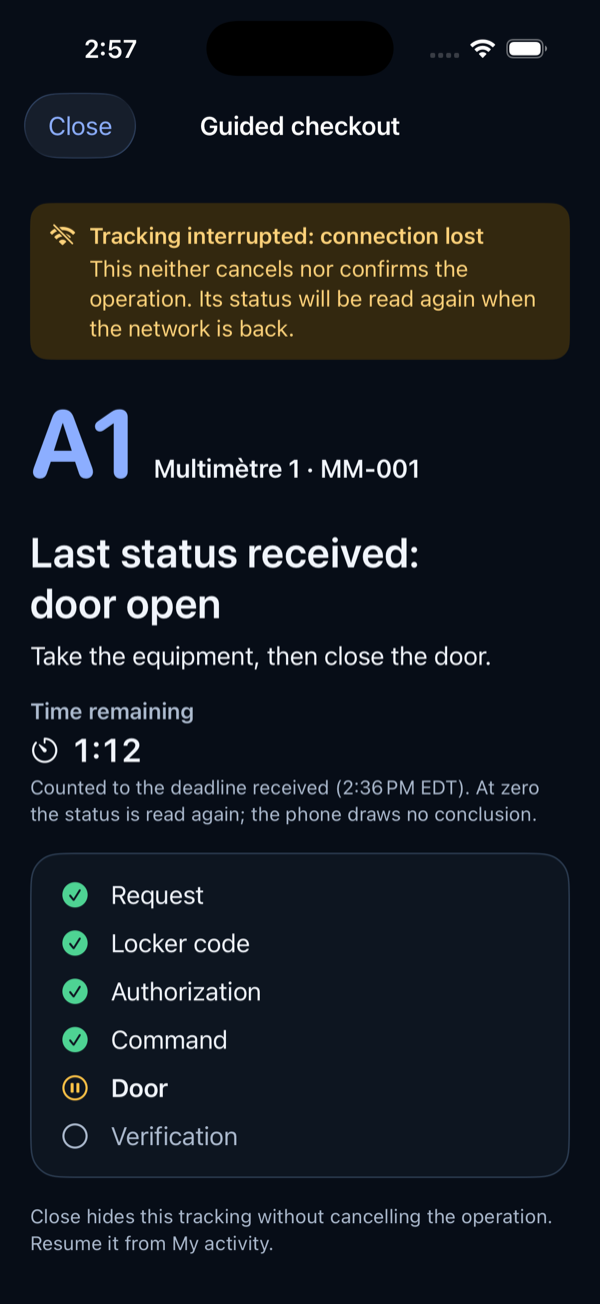
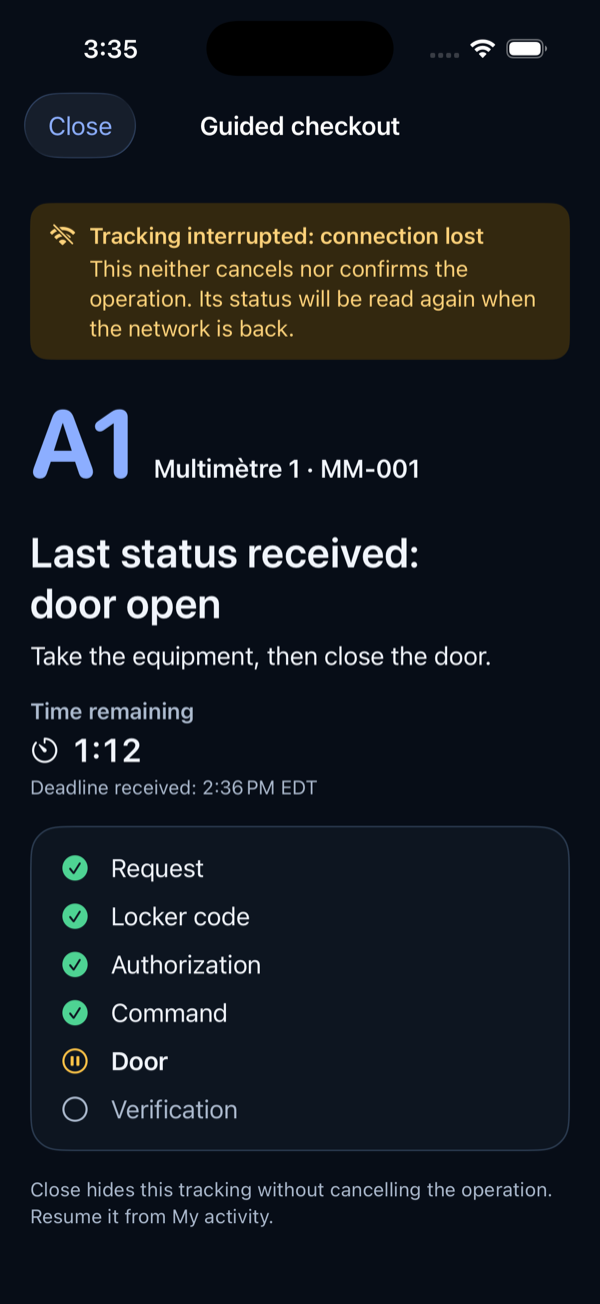
docs(design): finish the reservation, deadline and restart wording in the iOS flows
State both consequences of the reservation time, since reservedUntil also
becomes the loan's due time on checkout, and keep the unlock reminder
separate. At zero the countdown now waits for the service instead of
promising a new reading, and never concludes locally. Shorten the restart
button and condense it at accessibility sizes so it stays whole at AX5.
Mark the offline-locker variants of My activity as pending the
availableActions clarification, and let the render script target only the
captures that changed.

Refs #35

diff --git a/docs/design/mobile-parcours/prototype/FlowsPrototype.swift b/docs/design/mobile-parcours/prototype/FlowsPrototype.swift
@@ -44,6 +44,7 @@ fileprivate enum Screen: String {
     case authorized = "operation-autorisee"
     case unlockStarted = "operation-deverrouillage"
     case networkLost = "operation-reseau-perdu"
+    case networkLostDeadline = "operation-reseau-perdu-echeance"
     case confirmed = "operation-confirmee"
     case returnDoorOpen = "retour-porte-ouverte"
     case expired = "operation-expiree"
@@ -52,7 +53,7 @@ fileprivate enum Screen: String {
     var isOperation: Bool {
         switch self {
         case .awaitingDisplay, .scan, .scanCameraDenied, .authorized, .unlockStarted,
-             .networkLost, .confirmed, .returnDoorOpen, .expired, .anomaly: true
+             .networkLost, .networkLostDeadline, .confirmed, .returnDoorOpen, .expired, .anomaly: true
         default: false
         }
     }
@@ -576,17 +577,24 @@ fileprivate struct ReserveSheet: View {
                         Card {
                             // Native picker in the locker time zone, bounded by
                             // currentWindow.closesAt in the app.
-                            DatePicker(t.pickUpBy, selection: .constant(Sample.pickUpBy),
+                            DatePicker(t.reserveUntil, selection: .constant(Sample.pickUpBy),
                                        displayedComponents: .hourAndMinute)
                                 .environment(\.timeZone, Sample.zone)
                                 .foregroundStyle(Color.brandText)
                             Divider()
                             Fact(label: t.lockerCloses, value: Sample.time(Sample.closesAt))
                         }
-                        Text(t.lockerZoneNote(Sample.zoneName(Sample.pickUpBy)))
-                            .font(.footnote)
-                            .foregroundStyle(Color.brandMuted)
-                        Label(t.reserveReminder, systemImage: "lock.fill")
+                        VStack(alignment: .leading, spacing: 6) {
+                            // reservedUntil becomes Loan.dueAt on checkout (06 §11.1).
+                            Text(t.reserveUntilExplained)
+                                .font(.subheadline)
+                                .foregroundStyle(Color.brandText)
+                            Text(t.lockerZoneNote(Sample.zoneName(Sample.pickUpBy)))
+                                .font(.footnote)
+                                .foregroundStyle(Color.brandMuted)
+                        }
+                        .fixedSize(horizontal: false, vertical: true)
+                        Label(t.reserveUnlocksNothing, systemImage: "lock.fill")
                             .font(.subheadline)
                             .foregroundStyle(Color.brandText)
                     }
@@ -739,7 +747,7 @@ fileprivate struct OperationScreen: View {
         case .awaitingDisplay, .scan, .scanCameraDenied: 2
         case .authorized: 3
         case .unlockStarted: 4
-        case .networkLost, .returnDoorOpen: 5
+        case .networkLost, .networkLostDeadline, .returnDoorOpen: 5
         case .confirmed: 7
         case .expired: 5
         case .anomaly: 6
@@ -748,7 +756,7 @@ fileprivate struct OperationScreen: View {
     }
 
     private var isReturn: Bool { screen == .returnDoorOpen }
-    private var interrupted: Bool { screen == .networkLost }
+    private var interrupted: Bool { screen == .networkLost || screen == .networkLostDeadline }
 
     var body: some View {
         NavigationStack {
@@ -828,6 +836,7 @@ fileprivate struct OperationScreen: View {
         case .authorized: Countdown(seconds: 118, interrupted: false, t: t)
         case .unlockStarted: Countdown(seconds: 101, interrupted: false, t: t)
         case .networkLost: Countdown(seconds: 72, interrupted: true, t: t)
+        case .networkLostDeadline: Countdown(seconds: 0, interrupted: true, t: t)
         case .returnDoorOpen: Countdown(seconds: 72, interrupted: false, t: t)
         default: EmptyView()
         }
@@ -841,7 +850,15 @@ fileprivate struct OperationScreen: View {
         case .confirmed:
             Button(t.seeActivity, action: close).buttonStyle(PrimaryButtonStyle())
         case .expired:
-            Button(t.prepareAgain) {}.buttonStyle(PrimaryButtonStyle())
+            // Short visible label, condensed at accessibility sizes like the
+            // title, keeps the word whole at AX5 without capping the size; the
+            // title and instruction above give the context.
+            Button {} label: {
+                Text(t.prepareAgain).fontWidth(typeSize.isAccessibilitySize ? .condensed : .standard)
+            }
+                .buttonStyle(PrimaryButtonStyle())
+                .accessibilityLabel(t.prepareAgainSpoken)
+                .accessibilityHint(t.prepareAgainHint)
         case .anomaly:
             Button(t.seeActivity, action: close).buttonStyle(SecondaryButtonStyle())
         default:
@@ -851,7 +868,7 @@ fileprivate struct OperationScreen: View {
 }
 
 /// Counts down to the received `expiresAt` on the device clock. It never
-/// decides an outcome: at zero the app reads the operation again.
+/// decides an outcome: at zero it waits for the service's own state.
 fileprivate struct Countdown: View {
     let seconds: Int
     let interrupted: Bool
@@ -869,16 +886,26 @@ fileprivate struct Countdown: View {
                 Image(systemName: "timer")
             }
             .foregroundStyle(Color.brandText)
-            Text(interrupted ? t.countdownInterrupted(Sample.time(Sample.operationDeadline))
-                             : t.deadline(Sample.time(Sample.operationDeadline)))
+            if seconds == 0 {
+                Text(t.deadlineReached)
+                    .font(.subheadline.weight(.semibold))
+                    .foregroundStyle(Color.brandText)
+                    .fixedSize(horizontal: false, vertical: true)
+            }
+            Text(deadlineText)
                 .font(.footnote)
                 .foregroundStyle(Color.brandMuted)
                 .fixedSize(horizontal: false, vertical: true)
         }
         .accessibilityElement(children: .ignore)
         .accessibilityLabel(t.timeRemaining)
-        .accessibilityValue(Sample.spoken(seconds: seconds))
-        .accessibilityHint(interrupted ? t.countdownInterrupted(Sample.time(Sample.operationDeadline)) : "")
+        .accessibilityValue(seconds == 0 ? t.deadlineReached : Sample.spoken(seconds: seconds))
+        .accessibilityHint(deadlineText)
+    }
+
+    private var deadlineText: String {
+        let time = Sample.time(Sample.operationDeadline)
+        return interrupted ? t.deadlineReceived(time) : t.deadline(time)
     }
 }
 
@@ -895,7 +922,7 @@ fileprivate struct StepHeader: View {
             case .scan, .scanCameraDenied: (t.scanTitle, t.noDoorOpen, .progress)
             case .authorized: (t.accessAuthorized, t.dontOpenYet, .progress)
             case .unlockStarted: (t.unlockStarted, t.openDoorAndTake("Multimètre 1"), .progress)
-            case .networkLost: (t.lastStatusReceived(t.doorOpenLowercase), t.takeAndClose, .progress)
+            case .networkLost, .networkLostDeadline: (t.lastStatusReceived(t.doorOpenLowercase), t.takeAndClose, .progress)
             case .returnDoorOpen: (t.doorOpened, t.depositAndClose, .progress)
             case .confirmed: (t.checkoutConfirmed, t.loanStarted(Sample.time(Sample.pickUpBy)), .ready)
             case .expired: (t.timeExceeded, t.noDoorOpenedRestart, .blocked)
@@ -1211,14 +1238,17 @@ fileprivate struct Copy {
     var reserveNeedsRefresh: String {
         t("Réservation possible après actualisation de la fiche.", "You can reserve once this page is up to date.")
     }
-    var pickUpBy: String { t("Retirer avant", "Pick up by") }
+    var reserveUntil: String { t("Réserver jusqu'à", "Reserve until") }
     var lockerCloses: String { t("Fermeture du casier", "Locker closes") }
     func lockerZoneNote(_ zone: String) -> String {
         t("Heures du casier : \(zone).", "Locker time: \(zone).")
     }
-    var reserveReminder: String {
-        t("Retirez l'équipement avant cette heure; la réservation n'ouvre aucune porte.",
-          "Pick up the equipment before this time. Reserving does not unlock the compartment.")
+    var reserveUntilExplained: String {
+        t("Retirez l'équipement avant cette heure. Elle sera aussi l'heure de retour prévue.",
+          "Pick up the equipment before this time. It will also be the expected return time.")
+    }
+    var reserveUnlocksNothing: String {
+        t("La réservation n'ouvre aucune porte.", "Reserving does not unlock the compartment.")
     }
     var confirmReservation: String { t("Confirmer la réservation", "Confirm reservation") }
     func lockerClosed(_ time: String) -> String { t("Le casier est fermé. Réouverture à \(time).", "The locker is closed. It reopens at \(time).") }
@@ -1268,9 +1298,9 @@ fileprivate struct Copy {
     var doorOpenLowercase: String { t("porte ouverte", "door open") }
     var timeRemaining: String { t("Temps restant", "Time remaining") }
     func deadline(_ time: String) -> String { t("Échéance : \(time)", "Deadline: \(time)") }
-    func countdownInterrupted(_ time: String) -> String {
-        t("Calculé sur l'échéance reçue (\(time)). À zéro, l'état sera relu; aucun résultat n'est déduit sur l'appareil.",
-          "Counted to the deadline received (\(time)). At zero the status is read again; the phone draws no conclusion.")
+    func deadlineReceived(_ time: String) -> String { t("Échéance reçue : \(time)", "Deadline received: \(time)") }
+    var deadlineReached: String {
+        t("Échéance atteinte : en attente de confirmation du service.", "Deadline reached: waiting for the service to confirm.")
     }
     func compartmentSpoken(_ code: String) -> String { t("Cellule \(code)", "Compartment \(code)") }
     var codeAppearing: String { t("Le code s'affiche sur le casier", "Code appearing on the locker") }
@@ -1295,7 +1325,11 @@ fileprivate struct Copy {
     var dontRetryAdmin: String { t("Ne réessayez pas. Un administrateur doit vérifier la cellule A1.", "Don't try again. An administrator must check compartment A1.") }
     var scanCode: String { t("Scanner le code", "Scan the code") }
     var seeActivity: String { t("Voir mon activité", "View my activity") }
-    var prepareAgain: String { t("Recommencer la préparation", "Start again") }
+    var prepareAgain: String { t("Recommencer", "Start again") }
+    var prepareAgainSpoken: String { t("Recommencer le retrait", "Start the checkout again") }
+    var prepareAgainHint: String {
+        t("Un nouveau code s'affichera sur le casier.", "A new code will appear on the locker.")
+    }
     var phases: [String] { lang == .fr
         ? ["Demande", "Code du casier", "Autorisation", "Commande", "Porte", "Vérification"]
         : ["Request", "Locker code", "Authorization", "Command", "Door", "Verification"] }

diff --git a/docs/design/mobile-parcours/proposition.md b/docs/design/mobile-parcours/proposition.md
@@ -14,7 +14,9 @@ actif et retour.
 | Structure des sections, hiérarchies, règles d'affichage et textes français de `../asset-lifecycle/sections.md` §1, §4, §6, décisions U1 à U8 | **Approuvé** le 23 septembre 2026; repris tel quel sauf mention « proposé » en §8 |
 | Direction « Lumière du hub » v3, logo provisoire, apparences claire et sombre, connexion | **Approuvé** le 21 octobre 2026 (`../mobile-entree/proposition.md`) |
 | Direction v3 des écrans intérieurs (sombre profond, clair distinct, surfaces sobres, bleu d'action), typographie système, cartes, statuts associant symbole et texte, structure des fiches et de Mon activité, cellule A1 mise en évidence dans le parcours guidé, principe des dernières données connues hors ligne avec ancienneté explicite | **Approuvé** le 22 octobre 2026 (revue de Philippe) |
-| Corrections de la revue du 22 octobre (§3, §4, §6, §7.3), textes ajoutés ou modifiés et traductions anglaises (§8), comportements d'accessibilité | **Proposition** (ce dossier) |
+| Corrections visuelles de la revue du 22 octobre : statuts anciens neutralisés, ancienneté visible, Réessayer, suivi interrompu, navigation native, hiérarchie en grand texte, petit écran | **Approuvé** le 22 octobre 2026 (design seulement : ne vaut validation ni de VoiceOver, ni de la caméra, ni du réseau réel) |
+| Variantes « Retrait indisponible » et « Nouvelle tentative permise » de Mon activité (§6) | Visuellement acceptées; **choix de la variante en attente** de la clarification de `availableActions` (§10) |
+| Textes ajoutés ou modifiés et traductions anglaises (§8.1), finitions du 22 octobre (§5, §7.3), comportements d'accessibilité | **Proposition** (ce dossier) |
 
 Les rendus de `captures/` viennent d'un prototype SwiftUI (`prototype/`),
 compilé dans une copie temporaire de `apps/ios` : données fictives, aucune
@@ -115,12 +117,18 @@ réservation.
 
 ## 5. Réservation (feuille)
 
-**Composition** (approuvée) : équipement et cellule → « Retirer avant »
+**Composition** (approuvée) : équipement et cellule → « Réserver jusqu'à »
 (`reservedUntil`, sélecteur natif dans le fuseau du casier, pas de 15 min)
-bornée par `currentWindow.closesAt` → fermeture du casier → note « Heures du
-casier : heure avancée de l'Est. » → rappel « Retirez l'équipement avant cette
-heure; la réservation n'ouvre aucune porte. » → **Confirmer la réservation**,
-fixé en bas de la feuille pour rester atteignable en très grand texte.
+bornée par `currentWindow.closesAt` → fermeture du casier → « Retirez
+l'équipement avant cette heure. Elle sera aussi l'heure de retour prévue. » →
+note « Heures du casier : heure avancée de l'Est. » → rappel séparé « La
+réservation n'ouvre aucune porte. » → **Confirmer la réservation**, fixé en
+bas de la feuille pour rester atteignable en très grand texte.
+
+L'heure choisie a deux conséquences, et la feuille les dit toutes deux : elle
+borne le retrait (la réservation expire à `reservedUntil`, `06` §14) et, au
+retrait confirmé, elle est copiée dans `Loan.dueAt` (`06` §11.1). Aucune règle
+métier n'est ajoutée par l'application.
 
 | État | Déclencheur | Affichage |
 |---|---|---|
@@ -142,8 +150,8 @@ en P0.
 |---|---|---|---|---|
 | Aucune activité | 404 sur `/me/reservation` et `/me/loan` | « Aucune réservation ni prêt en cours. » | **Voir les équipements** | — |
 | Réservation active | `ReservationView.ACTIVE` | « Réservé pour vous » · « À retirer avant 16 h 30 HAE » | **Préparer le retrait** | Annuler la réservation (confirmation approuvée) |
-| Retrait indisponible | Le retrait ne figure pas dans `availableActions`; le casier est hors ligne (`LockerStatusView.connectionStatus = OFFLINE`) | Avis dans la carte : « Retrait indisponible : le casier est hors ligne. » + « Dernier signal du casier à 14 h 28 HAE. Actualisez pour vérifier à nouveau. » | **Préparer le retrait** désactivé (cadenas), juste sous l'avis, puis **Actualiser**, seule action principale active | Annuler la réservation (lien) |
-| Nouvelle tentative permise | Le retrait figure dans `availableActions` après un `503 LOCKER_OFFLINE` | Avis : « Essai de 14 h 32 HAE : le casier était hors ligne. » + « Vous pouvez faire une nouvelle tentative. Aucune porte ne s'ouvre sans le code du casier. » | **Nouvelle tentative de retrait** | Annuler la réservation |
+| Retrait indisponible (variante, sélection en attente) | Le retrait ne figure pas dans `availableActions`; le casier est hors ligne (`LockerStatusView.connectionStatus = OFFLINE`) | Avis dans la carte : « Retrait indisponible : le casier est hors ligne. » + « Dernier signal du casier à 14 h 28 HAE. Actualisez pour vérifier à nouveau. » | **Préparer le retrait** désactivé (cadenas), juste sous l'avis, puis **Actualiser**, seule action principale active | Annuler la réservation (lien) |
+| Nouvelle tentative permise (variante, sélection en attente) | Le retrait figure dans `availableActions` après un `503 LOCKER_OFFLINE` | Avis : « Essai de 14 h 32 HAE : le casier était hors ligne. » + « Vous pouvez faire une nouvelle tentative. Aucune porte ne s'ouvre sans le code du casier. » | **Nouvelle tentative de retrait** | Annuler la réservation |
 | Réservation expirée | `EXPIRED` | « Votre réservation a expiré à 16 h 30. » | **Voir les équipements** | — |
 | Opération en cours | `currentOperationId` non terminal | Pastille « Retrait en cours » / « Retour en cours » · « Suivi masqué. L'opération n'est pas annulée. » | **Reprendre** (relit l'opération, ne redéclenche rien) | — |
 | Prêt actif | `LoanView.ACTIVE` | « Emprunté par vous » · « Retour prévu à 16 h 30 HAE » | **Retourner l'équipement** | Voir l'équipement |
@@ -154,6 +162,13 @@ en P0.
 Les boutons suivent `availableActions`; l'application ne recalcule pas les
 actions permises. Le statut du casier explique un refus, il ne décide rien.
 Les valeurs de `availableActions` ne sont pas encore énumérées dans `09` (§10).
+Les deux variantes « casier hors ligne » sont des maquettes acceptées, pas une
+règle : la session principale, propriétaire de `09`, doit formaliser les
+valeurs et la conduite dans quatre cas — casier actuellement hors ligne,
+ancien échec suivi d'une nouvelle lecture, téléphone sans accès à l'API,
+opération déjà engagée à reprendre. Cette matrice et ses exemples seront
+alignés sur la clarification approuvée; d'ici là, l'application n'invente ni
+valeur d'action ni logique d'autorisation.
 
 ## 7. Retrait et retour guidés
 
@@ -217,17 +232,21 @@ passe en chasse condensée pour garder les mots longs entiers
 actions du bas restent atteignables.
 
 **Temps restant** : libellé « Temps restant », valeur en chiffres tabulaires,
-puis « Échéance : 14 h 36 HAE ». Le décompte part de l'`expiresAt` reçu et
-utilise l'horloge de l'appareil. À zéro, l'application relit l'opération : elle
-n'affiche jamais « Délai dépassé » ni aucun autre résultat d'elle-même; seul
-`EXPIRED` reçu le fait. VoiceOver lit « Temps restant, 1 minute, 41
+puis « Échéance : 14 h 36 HAE » (« Échéance reçue : … » quand le suivi est
+interrompu). Le décompte part de l'`expiresAt` reçu et utilise l'horloge de
+l'appareil. À zéro, il reste à 0:00 avec « Échéance atteinte : en attente de
+confirmation du service. » L'application demande l'état au service si le
+réseau le permet; tant qu'aucune réponse n'arrive, l'écran reste dans cet
+état, sans promettre de délai. Elle ne déduit jamais localement `CONFIRMED`,
+`EXPIRED`, `FAILED`, `ANOMALY` ni aucun autre résultat : seul l'état reçu
+change le titre (« Délai dépassé » n'apparaît qu'avec `EXPIRED` reçu). VoiceOver lit « Temps restant, 1 minute, 41
 secondes »; annonces automatiques seulement à 30 s et 10 s.
 
 | Attente ou échec matériel | Affichage |
 |---|---|
-| Réseau perdu pendant le suivi | Avis ambre en tête : « Suivi interrompu : connexion perdue » + « Ce n'est ni une annulation ni une confirmation. L'état sera relu dès le retour du réseau. » Titre : « Dernier état reçu : porte ouverte » (jamais l'affirmation « Porte ouverte »). Étape courante marquée d'un symbole pause, lue « dernier état reçu, suivi interrompu ». Le temps restant continue vers l'échéance reçue, avec « Calculé sur l'échéance reçue (14 h 36 HAE). À zéro, l'état sera relu; aucun résultat n'est déduit sur l'appareil. » Suivi ralenti puis repris (`09` §15.4). |
+| Réseau perdu pendant le suivi | Avis ambre en tête : « Suivi interrompu : connexion perdue » + « Ce n'est ni une annulation ni une confirmation. L'état sera relu dès le retour du réseau. » Titre : « Dernier état reçu : porte ouverte » (jamais l'affirmation « Porte ouverte »). Étape courante marquée d'un symbole pause, lue « dernier état reçu, suivi interrompu ». Le temps restant continue vers l'échéance reçue, avec « Échéance reçue : 14 h 36 HAE »; à zéro, « Échéance atteinte : en attente de confirmation du service. » L'interruption ne promet aucune relecture à heure fixe : la relecture se fait au retour du réseau (suivi ralenti puis repris, `09` §15.4). |
 | Application en arrière-plan | Suivi suspendu; relecture immédiate au retour |
-| Porte restée fermée | `EXPIRED` : « Délai dépassé. Aucune porte n'a été ouverte. Recommencez la préparation. » |
+| Porte restée fermée | `EXPIRED` : « Délai dépassé. Aucune porte n'a été ouverte. Recommencez la préparation. » Bouton **Recommencer** (libellé court, en chasse condensée aux tailles d'accessibilité comme le titre, pour garder le mot entier en AX5 sans plafonner la taille); VoiceOver lit « Recommencer le retrait » avec l'indice « Un nouveau code s'affichera sur le casier. » |
 | Échec sûr | `FAILED` : « Opération arrêtée sans ouverture. Vous pouvez recommencer. »; motif générique tant que `failureReason` reste une chaîne libre (C8) |
 | Incertitude physique | `ANOMALY` : « Intervention requise. Ne réessayez pas. Un administrateur doit vérifier la cellule A1. » |
 | Session expirée en cours | Retour à la connexion, avec l'information que l'opération du casier n'est pas annulée; reprise par `currentOperationId` après connexion |
@@ -281,8 +300,9 @@ par l'appareil (§1).
 | Fiche hors ligne | Réservation possible après actualisation de la fiche. | You can reserve once this page is up to date. | proposé |
 | Filtres, très grand texte | Filtre : Tous | Filter: All | proposé |
 | Raison bloquée | Calibration expirée depuis le 8 sept. 2026 | Calibration expired on Sep 8, 2026 | FR inchangé; EN corrigé |
-| Rappel de réservation | Retirez l'équipement avant cette heure; la réservation n'ouvre aucune porte. | Pick up the equipment before this time. Reserving does not unlock the compartment. | FR approuvé; EN corrigé |
-| Feuille de réservation, sélecteur (remplace « Heure de retour » · « Return by ») | Retirer avant | Pick up by | proposé : la valeur est `reservedUntil` (09 §14.1), limite de retrait de la réservation, pas l'échéance de retour du prêt (`dueAt`) |
+| Feuille de réservation, sélecteur (remplace « Heure de retour » · « Return by ») | Réserver jusqu'à | Reserve until | demandé par Philippe le 22 octobre; glossaire en attente (session principale) |
+| Feuille de réservation, conséquences de l'heure (remplace la première moitié du rappel approuvé) | Retirez l'équipement avant cette heure. Elle sera aussi l'heure de retour prévue. | Pick up the equipment before this time. It will also be the expected return time. | demandé par Philippe le 22 octobre (`06` §11.1); glossaire en attente |
+| Rappel de réservation, séparé | La réservation n'ouvre aucune porte. | Reserving does not unlock the compartment. | FR repris du rappel approuvé; glossaire en attente |
 | Feuille de réservation | Heures du casier : heure avancée de l'Est. | Locker time: Eastern Daylight Saving Time. | proposé (nom du fuseau fourni par le système) |
 | Retrait indisponible | Retrait indisponible : le casier est hors ligne. · Dernier signal du casier à 14 h 28 HAE. Actualisez pour vérifier à nouveau. | Checkout unavailable: the locker is offline. · Locker last seen at 2:28 PM EDT. Refresh to check again. | proposé |
 | Nouvelle tentative | Essai de 14 h 32 HAE : le casier était hors ligne. · Vous pouvez faire une nouvelle tentative. Aucune porte ne s'ouvre sans le code du casier. · Nouvelle tentative de retrait | Attempt at 2:32 PM EDT: the locker was offline. · You can try again. No door opens without the locker code. · Try checkout again | proposé |
@@ -294,7 +314,9 @@ par l'appareil (§1).
 | Titre réseau perdu (remplace « Porte ouverte ») | Dernier état reçu : porte ouverte | Last status received: door open | proposé |
 | Étape, VoiceOver | dernier état reçu, suivi interrompu | last status received, tracking interrupted | proposé |
 | Temps restant | Temps restant · Échéance : 14 h 36 HAE | Time remaining · Deadline: 2:36 PM EDT | proposé |
-| Temps restant, réseau perdu | Calculé sur l'échéance reçue (14 h 36 HAE). À zéro, l'état sera relu; aucun résultat n'est déduit sur l'appareil. | Counted to the deadline received (2:36 PM EDT). At zero the status is read again; the phone draws no conclusion. | proposé |
+| Temps restant, réseau perdu | Échéance reçue : 14 h 36 HAE | Deadline received: 2:36 PM EDT | proposé |
+| Temps restant à zéro | Échéance atteinte : en attente de confirmation du service. | Deadline reached: waiting for the service to confirm. | FR demandé par Philippe le 22 octobre; EN proposé |
+| Délai dépassé, bouton (remplace « Recommencer la préparation ») | Recommencer · VoiceOver : Recommencer le retrait · indice : Un nouveau code s'affichera sur le casier. | Start again · VoiceOver: Start the checkout again · hint: A new code will appear on the locker. | libellé visible demandé par Philippe le 22 octobre; libellé et indice VoiceOver proposés |
 | Déverrouillage | Ouvrez la porte A1 et retirez « Multimètre 1 ». Si elle reste fermée, ne forcez pas et attendez le message suivant. | Open door A1 and take “Multimètre 1”. If it stays shut, don't force it; wait for the next message. | FR proposé : le nom saisi remplace « le multimètre » approuvé, que le contrat ne fournit pas |
 | Retard | En retard depuis 16 h 30 HAE — rapportez l'équipement. | Overdue since 4:30 PM EDT. Please bring the equipment back. | FR approuvé; EN revu |
 | Autres anglais revus | — | Why it's blocked · Browse equipment · View my activity · Stand in front of the locker screen. · Code appearing on the locker · Start the checkout again. · Start again · Due back at … · Allow camera access in Settings to scan the code. · Scanning unlocks nothing until the server authorizes it. | EN proposé |
@@ -344,21 +366,20 @@ appareil.
 | Réservation | §14.1–14.4, `currentWindow` §8.6 | Routes absentes de `dev` (RES-01 #37, RES-02 #38) |
 | Retrait, retour, suivi, scan | §15.1–15.5, `LockerOperationView` §8.5 | Routes absentes de `dev` (CHK-01 #46, CHK-02 #47, LOC-02 #44, RET-01 #50, RET-02 #51); motifs d'échec en chaîne libre (C8) |
 | Statut du casier | §16.1, `LockerStatusView` §8.6 | Route absente de `dev` |
-| Actions permises dans Mon activité | `availableActions` (§8.3–8.4, `string[]`) | **Valeurs non énumérées**, et rien ne dit si un casier hors ligne retire le retrait des actions permises. Les deux variantes de §6 couvrent les deux réponses possibles; la règle relève du contrat, pas de l'application. |
+| Actions permises dans Mon activité | `availableActions` (§8.3–8.4, `string[]`) | **Valeurs non énumérées**, et rien ne dit si un casier hors ligne retire le retrait des actions permises. Demande transmise le 22 octobre à la session principale (propriétaire de `09`) : valeurs approuvées pour la réservation et le prêt; conduite pour un casier actuellement hors ligne, un ancien échec suivi d'une nouvelle lecture, un téléphone sans accès à l'API et une opération déjà engagée; raison lisible par machine si une action est retirée; motif et heure d'un échec dû au casier (C8); dernier signal et fuseau du casier sur la carte, ou appel à `GET /lockers/{id}/status`. **Référence commune : en attente.** |
 
 Aucun contrat n'est modifié par cette proposition.
 
 ## 11. Décisions encore nécessaires
 
-1. Valider les textes de §8.1, dont trois changements du français approuvé :
-   le nom saisi dans la consigne de déverrouillage, le nouveau message de
-   réseau perdu qui remplace « L'opération continue sur le casier », et
-   « Retirer avant » qui remplace « Heure de retour » sur le sélecteur de la
-   réservation (la valeur envoyée est `reservedUntil`, pas une heure de
-   retour).
-2. Casier hors ligne dans Mon activité : décision de contrat (propriétaire de
-   `09`) sur les valeurs de `availableActions` et sur l'effet d'un casier hors
-   ligne. Le design est prêt pour les deux réponses.
+1. Valider les textes de §8.1 encore proposés, dont deux changements du
+   français approuvé : le nom saisi dans la consigne de déverrouillage, et le
+   nouveau message de réseau perdu qui remplace « L'opération continue sur le
+   casier ». Les textes de réservation et « Échéance atteinte » viennent de la
+   revue du 22 octobre; leurs entrées de glossaire restent à faire par la
+   session principale.
+2. `availableActions` : clarification de contrat demandée à la session
+   principale (§10), puis approbation. La matrice de §6 sera alignée ensuite.
 3. Valider la présentation « Dernier état : … » en couleurs neutres pour les
    statuts non actualisés.
 
@@ -378,7 +399,8 @@ très grand texte (AX5). Liste et procédure : `captures/README.md`.
   filtre), défilement en très grand texte; captures dans
   `captures/interactions/`. Le prototype sélectionne le filtre mais ne
   filtre pas la liste. **Spécifié seulement** : VoiceOver (libellés et
-  annonces), comportement réseau réel, relecture à zéro, caméra, haptique.
+  annonces), comportement réseau réel, attente et relecture à zéro, caméra,
+  haptique.
 - Contrastes calculés sur les valeurs des jetons, pas mesurés sur appareil.
 - VoiceOver, Taille du texte et Réduire les animations seront vérifiés par
   les tests de chaque story d'implémentation.

diff --git a/docs/design/mobile-parcours/captures/README.md b/docs/design/mobile-parcours/captures/README.md
@@ -15,7 +15,7 @@ d'accessibilité la plus grande, AX5).
 | Réservation | `fr-reserver-light`, `en-reserver-light`, `fr-reserver-casier-ferme-dark`, `fr-reserver-light-se` |
 | Mon activité | `fr-activite-vide-light`, `fr-activite-reservation-light`, `en-activite-reservation-dark`, `fr-activite-pret-retard-light`, `fr-activite-casier-hors-ligne-light`, `en-activite-casier-hors-ligne-dark`, `fr-activite-retrait-a-reessayer-light`, `fr-activite-operation-en-cours-light` |
 | Code du casier | `fr-operation-code-en-attente-light`, `fr-scan-dark`, `fr-scan-camera-refusee-light` |
-| Progression physique | `fr-operation-autorisee-light`, `fr-operation-deverrouillage-dark`, `en-operation-deverrouillage-light`, `fr-operation-deverrouillage-light-ax`, `fr-operation-deverrouillage-light-se`, `fr-operation-reseau-perdu-light`, `en-operation-reseau-perdu-dark`, `fr-operation-reseau-perdu-light-ax`, `fr-operation-confirmee-light`, `fr-operation-expiree-light`, `fr-operation-anomalie-dark` |
+| Progression physique | `fr-operation-autorisee-light`, `fr-operation-deverrouillage-dark`, `en-operation-deverrouillage-light`, `fr-operation-deverrouillage-light-ax`, `fr-operation-deverrouillage-light-se`, `fr-operation-reseau-perdu-light`, `en-operation-reseau-perdu-dark`, `fr-operation-reseau-perdu-light-ax`, `fr-operation-reseau-perdu-echeance-light`, `en-operation-reseau-perdu-echeance-dark`, `fr-operation-confirmee-light`, `fr-operation-expiree-light`, `fr-operation-expiree-light-ax`, `fr-operation-anomalie-dark` |
 | Retour | `fr-retour-porte-ouverte-light` |
 
 Le dossier `interactions/` contient des captures prises pendant l'essai manuel
@@ -27,6 +27,10 @@ Reproduire (depuis la racine du dépôt) :
 ```bash
 docs/design/mobile-parcours/prototype/render.sh
 ```
+
+`PROTO_ONLY` limite le rendu aux captures dont le nom correspond à une
+expression régulière, par exemple
+`PROTO_ONLY='^fr-operation-expiree-' docs/design/mobile-parcours/prototype/render.sh`.
 
 Ces captures illustrent une **proposition** : elles ne prouvent ni VoiceOver,
 ni la caméra, ni le comportement réseau réel, et ne remplacent pas l'essai sur
